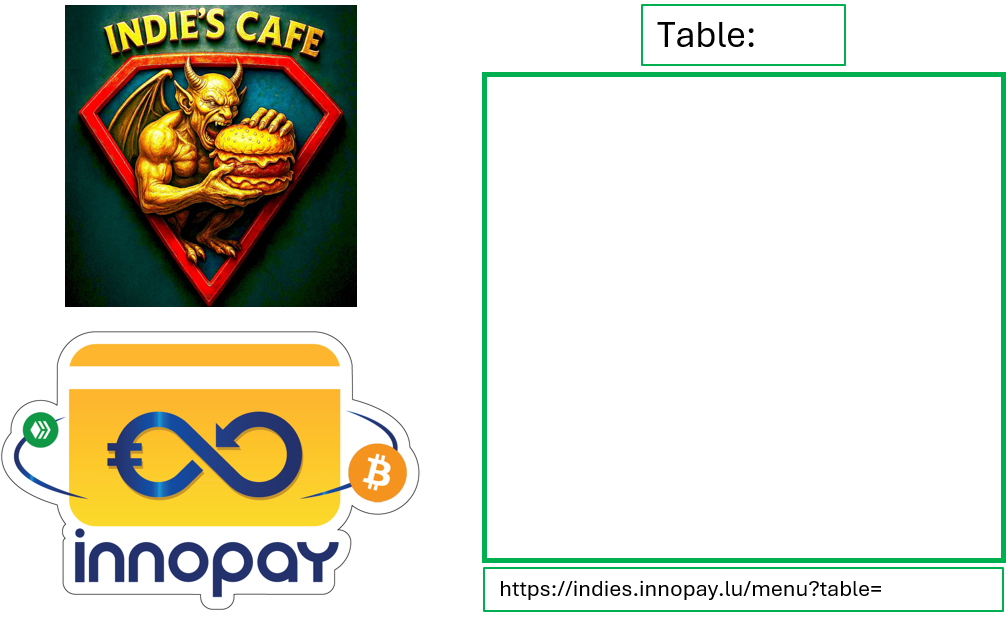
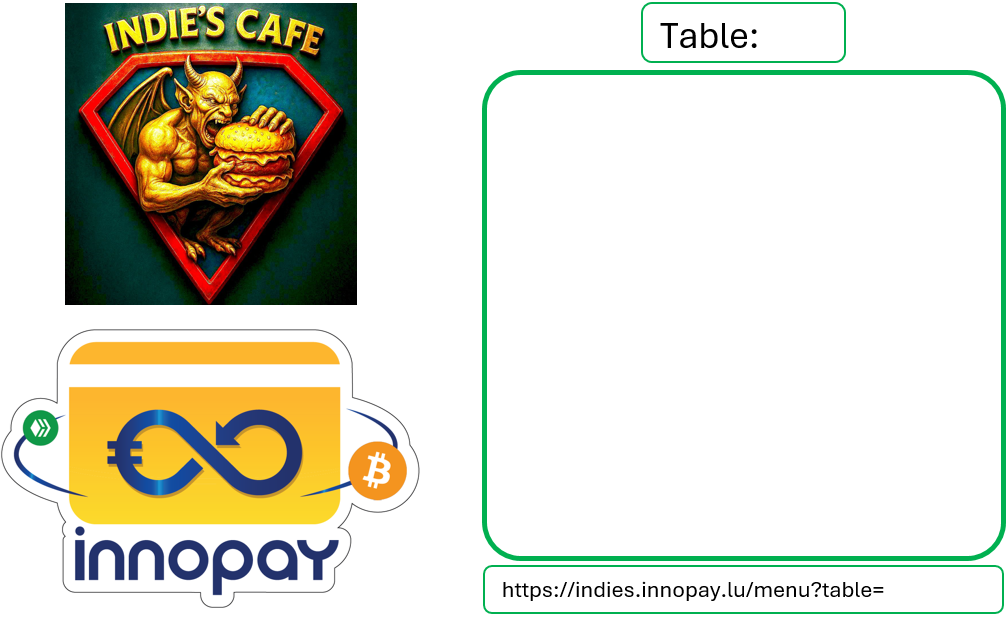
new and improved QR codes for the tables

Changed region(s): [[0.0, 0.0, 0.4006, 0.9854], [0.4622, 0.8622, 1.0, 1.0], [0.4622, 0.0, 1.0, 0.1848]]

diff --git a/scripts/qrcodes/generateqrs.py b/scripts/qrcodes/generateqrs.py
@@ -42,6 +42,37 @@ def _clear_cell_margins(cell):
     tcPr.append(tcMar)
 
 
+def _set_cell_margins(cell, margin_twips=30):
+    """Set all internal cell margins to specified value in twips (2px ≈ 30 twips)."""
+    tc = cell._tc
+    tcPr = tc.get_or_add_tcPr()
+    tcMar = OxmlElement('w:tcMar')
+    for name in ('top', 'left', 'bottom', 'right'):
+        node = OxmlElement(f'w:{name}')
+        node.set(qn('w:w'), str(margin_twips))
+        node.set(qn('w:type'), 'dxa')
+        tcMar.append(node)
+    tcPr.append(tcMar)
+
+
+def _set_table_borders(table):
+    """Set default single-line borders for the table."""
+    tbl = table._tbl
+    tblPr = tbl.tblPr
+    if tblPr is None:
+        tblPr = OxmlElement('w:tblPr')
+        tbl.insert(0, tblPr)
+    borders = OxmlElement('w:tblBorders')
+    for name in ('top', 'left', 'bottom', 'right', 'insideH', 'insideV'):
+        elem = OxmlElement(f'w:{name}')
+        elem.set(qn('w:val'), 'single')
+        elem.set(qn('w:sz'), '8')  # Border width in eighths of a point (8 = 1pt)
+        elem.set(qn('w:space'), '0')
+        elem.set(qn('w:color'), '000000')
+        borders.append(elem)
+    tblPr.append(borders)
+
+
 def _style_finders(img, modules_count, module_px):
     """
     Redraw the three finder patterns with a fully rounded outer border and a circular inner eye.
@@ -132,14 +163,14 @@ def generate_qr_codes_and_overlay(uri_file_path, tables_file_path, template_file
     # --- Define Positions and Sizes (Internal to each generated image - trial and error values) ---
     QR_CODE_SIZE_PIXELS = 470
     QR_POS_X = 508
-    QR_POS_Y = 84
+    QR_POS_Y = 81
 
     TABLE_NUM_TEXT_POS_X = 760
     TABLE_NUM_TEXT_POS_Y = 17
     FONT_SIZE = 34
     TEXT_COLOR = (0, 0, 0)
 
-    TABLE_NUM_HTTP_TEXT_POS_X = 882
+    TABLE_NUM_HTTP_TEXT_POS_X = 884
     TABLE_NUM_HTTP_TEXT_POS_Y = 579
     FONT_SIZE_HTTP = 18
     TEXT_COLOR_HTTP = (0, 0, 0)
@@ -280,27 +311,29 @@ def generate_qr_codes_and_overlay(uri_file_path, tables_file_path, template_file
         except Exception as e:
             print(f"Error saving temporary image {temp_output_filename}: {e}")
 
-    # --- Table layout dimensions (A4 landscape, derived from margins set above) ---
-    AVAIL_WIDTH_CM = 29.7 - 2.0 - 2.0     # 25.7 cm
-    AVAIL_HEIGHT_CM = 21.0 - 1.27 - 1.27  # 18.46 cm
-    COL_WIDTH_CM = AVAIL_WIDTH_CM / 2      # 12.85 cm — wider than the image; centering within the cell creates the gap
-    ROW_HEIGHT_CM = AVAIL_HEIGHT_CM / 2    # 9.23 cm  — images centered vertically within each row
+    # --- Table layout dimensions (sized to fit images tightly, not full page) ---
+    # Add padding for borders and spacing between images
+    COL_WIDTH_CM = TARGET_WIDTH_CM_FOR_DOCX + 0.3  # 3mm padding per cell
+    ROW_HEIGHT_CM = TARGET_HEIGHT_CM_FOR_DOCX + 0.3
 
     # --- Add Images to Word Document in 2x2 Grid ---
     for i in range(0, len(generated_image_paths), 4):
         table = document.add_table(rows=2, cols=2)
         table.autofit = False
         table.alignment = WD_TABLE_ALIGNMENT.CENTER
-        _remove_table_borders(table)
+        _set_table_borders(table)  # Show borders with proper spacing
 
         for row_idx in range(2):
             table.rows[row_idx].height = Cm(ROW_HEIGHT_CM)
             for col_idx in range(2):
-                img_idx = i + row_idx * 2 + col_idx
+                # Fill column-wise in pairs: left col gets 1,2,5,6..., right col gets 3,4,7,8...
+                img_idx = i + col_idx * 2 + row_idx
                 cell = table.cell(row_idx, col_idx)
                 cell.width = Cm(COL_WIDTH_CM)
+                _clear_cell_margins(cell)  # 0 margins for correct layout
+
+                # Center images both vertically and horizontally
                 cell.vertical_alignment = WD_ALIGN_VERTICAL.CENTER
-                _clear_cell_margins(cell)
 
                 paragraph = cell.paragraphs[0]
                 paragraph.alignment = WD_ALIGN_PARAGRAPH.CENTER
